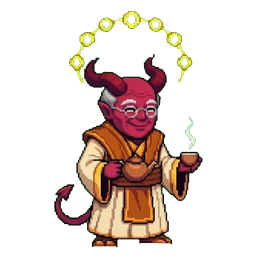
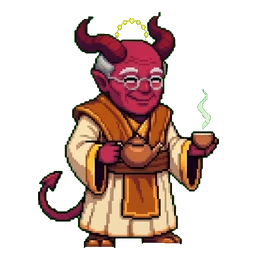
Cleric ID9 halka önizlemesi 3. tur: kullanıcı örneklerine göre küçük halka (kafatası × 0,48, baş tepesinde, boynuzların arasında), figür küçültülmedi; Tiefling kadın ID9 yeni çizim önizlemesi
Jetonlara yazılmadı (onay bekliyor). Dragonborn pul maskesi ∩ halka = 0. Elf kadın küçük halkaya sığmadı, 2. turun 0,86 önizlemesi kaldı. Diğer 12 jeton 2. turla aynı.

Claude-Session: https://claude.ai/code/session_01VVQfWy7Gxh4PHzxq6UKvoy

diff --git a/scripts/cleric-id9-halka.py b/scripts/cleric-id9-halka.py
@@ -86,7 +86,7 @@ OLCEK = (0.85, 1.10)   # ölçek sınırı: saç/kulak/boynuz eni yine şişirir
 
 BOYNUZLU = {'tiefling', 'dragonborn'}          # halka boynuz uçlarının üstüne: boncuklar boynuzla hiç kesişmez
 TAM = {'elf-kadin-cleric-ID9'}                 # boncuklar tam görünür: halka figürün hiçbir pikseliyle kesişmez
-HARIC = {'tiefling-kadin-cleric-ID9': 'çizim erkek karakter; kadın çizim Gemini ile yeniden üretilecek (kullanıcı, 2026-11-19)'}
+HARIC = {}   # 3. tur: Tiefling kadın ID9 yeni çizimle geri geldi
 KUCULT = [round(1 - 0.01 * i, 2) for i in range(0, 21)]   # 1,00 … 0,80: üstten sığmazsa figür ayak hizası sabit kalarak en az gereken kadar küçültülür
 
 def shrink(clean, f):
@@ -143,6 +143,48 @@ def compose(clean, rimg, x0, y0):
     can = Image.new('RGBA', (256, 256), (0, 0, 0, 0)); can.paste(rimg, (x0, y0), rimg)
     can.alpha_composite(Image.fromarray(clean, 'RGBA')); return np.array(can)
 
+# 2026-11-19 (3. tur): kullanıcı örnekleri (assets-ham/eksikler/halka-ornek-tiefling-erkek.png, -dragonborn-kadin.png; 1/4 indirgeme = jeton ölçeği)
+# ölçüldü: halka eni = kafatası eni × 0,48 (0,50 / 0,46), boy/en 0,68 (25/36, 21/31), alt kenar = baş tepesi + 2 (başın arkasına girer),
+# yatay merkez = baş merkezi + ırk payı × kafatası eni (Tiefling −0,035, Dragonborn −0,11). Figür küçültülmez.
+ORNEK = {'en': 0.48, 'boy_en': 0.68, 'alt': 2, 'x': {'tiefling': -0.035, 'dragonborn': -0.11, 'elf': 0.0}}
+YENI = {'tiefling-kadin-cleric-ID9': 'tiefling-kadin-cleric-ID9-yeni.jpg'}   # yeni çizim kaynağı (assets-ham/karakter/)
+
+def small_ring(clean, ring, race):
+    ht, cx, _, body = head(clean); sw = skull_width(body, ht, cx)
+    rw = max(8, round(sw * ORNEK['en'])); rh = max(5, round(rw * ORNEK['boy_en']))
+    rimg = Image.fromarray(ring, 'RGBA').convert('RGBa').resize((rw, rh), Image.LANCZOS).convert('RGBA')
+    ra_ = np.array(rimg); ra_[..., 3] = np.clip(ra_[..., 3].astype(int) * 2, 0, 255).astype(np.uint8)   # küçültmede incelen boncuklar örnekteki gibi tam parlaklıkta
+    rimg = Image.fromarray(ra_, 'RGBA')
+    xm = round(cx + ORNEK['x'].get(race, 0.0) * sw - rw / 2); y0 = ht + ORNEK['alt'] - rh
+    ra = np.array(rimg)[..., 3] > 40; ys_, xs_ = np.where(ra); horn = forbidden_of(clean, 'boynuz')
+    def mask_at(x0):
+        mk = np.zeros((256, 256), bool); yy, xx = ys_ + y0, xs_ + x0; ok = (yy >= 0) & (yy < 256) & (xx >= 0) & (xx < 256); mk[yy[ok], xx[ok]] = True; return mk
+    # boynuzlar halkanın iki yanında kalsın: ölçülen merkezin ±12 px içinde boynuz kesişimi en az olan yatay konum (eşitlikte ölçülene en yakın)
+    x0 = min(range(xm - 12, xm + 13), key=lambda x: (int((mask_at(x) & horn).sum()), abs(x - xm)))
+    out = compose(clean, rimg, x0, y0); rmask = mask_at(x0)
+    vis = rmask & ~(clean[..., 3] > 127)                # görünen halka pikselleri (başın önünde kalmayan)
+    info = {'kip': 'ornek', 'figur_olcek': 1.0, 'bas_tepe': int(ht), 'kafatasi_en': int(sw), 'halka_kutu': [x0, y0, x0 + rw, y0 + rh], 'yatay_kayma_px': int(x0 - xm),
+            'boynuz_kesisim_px': int((rmask & horn).sum()), 'kirpik': bool(y0 < 0 or x0 < 0 or x0 + rw > 256),
+            'gorunur_oran': round(float(vis.sum()) / max(1, int(rmask.sum())), 3)}
+    return out, info, rmask
+
+def new_token(name):
+    """Yeni çizim: yeşil anahtar (açık yeşil buhar ten/zemin değil, kalır), figür + buhar; ölçek = aynı ırk/cinsiyet Cleric ID1–ID8 ortanca boyu,
+    ayak tuvalin 247. satırında (diğer ID9'larla aynı)."""
+    import importlib.util as iu
+    sp = iu.spec_from_file_location('cc', 'scripts/cc-kesim.py'); cc = iu.module_from_spec(sp); sp.loader.exec_module(cc)
+    a = np.asarray(Image.open(f'assets-ham/karakter/{YENI[name]}').convert('RGB')); fg = cc.key_page(a)
+    lab, n = ndi.label(fg, structure=np.ones((3, 3))); sz = ndi.sum(fg, lab, range(1, n + 1)); H, W = fg.shape; objs = ndi.find_objects(lab)
+    keep = [i for i in range(1, n + 1) if sz[i - 1] >= 30 and not (objs[i - 1][0].start <= 1 or objs[i - 1][1].start <= 1 or objs[i - 1][0].stop >= H - 1 or objs[i - 1][1].stop >= W - 1)]
+    m = np.isin(lab, keep); ys, xs = np.where(m)
+    cell = cc.keyed_rgba(a[ys.min():ys.max() + 1, xs.min():xs.max() + 1], m[ys.min():ys.max() + 1, xs.min():xs.max() + 1])
+    race, g = name.split('-')[0], name.split('-')[1]
+    hs = []
+    for i in range(1, 9):
+        t = np.array(Image.open(f'{D}/{race}-{g}-cleric-ID{i}.webp').convert('RGBA'))[..., 3] > 127; yy, _ = np.where(t); hs.append(yy.max() - yy.min() + 1)
+    tok, sc = cc.place_token(cell, float(np.median(hs)))
+    return tok, {'kaynak': YENI[name], 'hedef_boy': float(np.median(hs)), 'olcek': sc, 'yesil_px_kalan': int(((tok[..., 1].astype(int) - np.maximum(tok[..., 0], tok[..., 2]).astype(int) > 120) & (tok[..., 3] > 0)).sum())}
+
 def main():
     os.makedirs(f'{OUT}/aday', exist_ok=True)
     ref = np.array(Image.open(f'{D}/human-erkek-cleric-ID9.webp').convert('RGBA'))
@@ -158,14 +200,21 @@ def main():
             n = f'{race}-{g}-cleric-ID9'
             if n in HARIC: rep['haric'] = {**rep.get('haric', {}), n: HARIC[n]}; continue
             a = np.array(Image.open(f'{D}/{n}.webp').convert('RGBA'))
-            _, clean, m = split_ring(a)
-            mode = 'boynuz' if race in BOYNUZLU else ('tam' if n in TAM else 'normal')
-            out, info = place(clean, ring, rb, rht, rcx, rhw, mode)
-            info['silinen_px'] = int(m.sum()); info['kip'] = mode
+            yeni = None
+            if n in YENI: tokn, yeni = new_token(n); clean, m = tokn, np.zeros(tokn.shape[:2], bool)   # yeni çizimde halka yok (sarı gözler silinmesin)
+            else: _, clean, m = split_ring(a)
+            if race in BOYNUZLU or n in TAM:
+                out, info, rmask = small_ring(clean, ring, race)
+                if n in TAM and (info['kirpik'] or info['gorunur_oran'] < 0.98):   # saç üstüne sığmadı: 2. turun 0,86 ölçekli önizlemesi kalır
+                    out, info2 = place(clean, ring, rb, rht, rcx, rhw, 'tam'); info = {**info2, 'kip': 'tam (geri dönüş)', 'kucuk_halka_denemesi': info}
+            else:
+                out, info = place(clean, ring, rb, rht, rcx, rhw, 'normal'); info['kip'] = 'normal'
+            info['silinen_px'] = int(m.sum())
+            if yeni: info['yeni_cizim'] = yeni
             pm = f'{D}/maske-pul/{n}.png'
             if race == 'dragonborn' and os.path.exists(pm):
                 mk = np.array(Image.open(pm).convert('L')) > 127; info['pul_maske_kesisim_px'] = int((mk & m).sum())
-                info['halka_pul_maske_kesisim_px'] = int((mk & (out[..., 3] > 0) & (np.abs(out.astype(int) - a.astype(int)).max(-1) > 0)).sum()) if info.get('figur_olcek', 1) == 1 else 'figür küçüldü'
+                info['halka_pul_maske_kesisim_px'] = int((mk & (np.abs(out.astype(int) - a.astype(int)).max(-1) > 0)).sum()) if info.get('figur_olcek', 1) == 1 else 'figür küçüldü'
             rep['jetonlar'][n] = info
             Image.fromarray(out, 'RGBA').save(f'{OUT}/aday/{n}.png')
             pairs.append((n, a, out))
@@ -180,7 +229,7 @@ def main():
         d.text((x + 4, y + 6), f'{n}   once | sonra', fill=(255, 255, 255))
     im.save(f'{OUT}/once-sonra-3x.png')
     for n, a, b in pairs:                              # boynuzlu ırklar ve elf kadın: 4× yakın (baş bölgesi)
-        if not (n.split('-')[0] in BOYNUZLU or n in TAM): continue
+        if not (n.split('-')[0] in BOYNUZLU or n in TAM or n in YENI): continue
         c = Image.new('RGBA', (2 * 640 + 24, 520 + 26), (52, 54, 60, 255)); d2 = ImageDraw.Draw(c)
         for j, t in enumerate((a, b)):
             c.alpha_composite(Image.fromarray(t, 'RGBA').crop((48, 0, 208, 130)).resize((640, 520), Image.NEAREST), (j * 664, 26))

diff --git a/docs/sabah/cleric-id9-halka/NOT.md b/docs/sabah/cleric-id9-halka/NOT.md
@@ -1,29 +1,30 @@
-# Cleric ID9 halka önizlemesi: 2. tur (2026-11-19; jetonlara yazılmadı, onay bekliyor)
+# Cleric ID9 halka önizlemesi: 3. tur (2026-11-19; jetonlara yazılmadı, onay bekliyor)
 
-- `once-sonra-3x.png`: 17 jeton (Tiefling kadın ID9 hariç). 4× yakın: `yakin-4x-<jeton>.png` (Tiefling erkek, Dragonborn erkek/kadın, elf kadın).
-- Boynuzlu ırklar ve elf kadın: halka boynuz/saçla kesişmesin diye yukarı alındı; tuvale sığmadığı için figür küçüldü (ayak hizası sabit):
-  Tiefling erkek 0,82, elf kadın 0,86, Dragonborn erkek 0,87, Dragonborn kadın 0,92. Küçültmeden en iyi yerleşimde bile kesişim kalıyordu
-  (elf kadın 1096 px, Tiefling erkek 203, Dragonborn erkek 53, kadın 24). Diğer 13 jeton bir önceki önizlemeyle piksel piksel aynı.
-- **Onaylanırsa ek iş:** küçülen 4 jetonun maskeleri figürle hizalı kalmaz; ten maskesi (`npm run soy-maske -- --alt`) ve Dragonborn pul maskesi
-  (`python scripts/dragonborn-pul-maske.py`; bu iki jetonun `dragonborn-pul-duzeltme.json` kaydı yok) yeniden üretilmeli. Halka maskeye girmez
-  (sarı-yeşil, ten/pul tonu değil). Küçültme istenmezse alternatif: bu 4 jetonda halkayı kesişimi kabul ederek bırakmak.
+Kaynak: kullanıcı örnekleri `assets-ham/eksikler/halka-ornek-tiefling-erkek.png`, `halka-ornek-dragonborn-kadin.png` (1/4 indirgeme = jeton ölçeği).
+Ölçülen kural (`scripts/cleric-id9-halka.py` `ORNEK`): halka = insan erkek halka yayı; eni kafatası eni × 0,48 (örneklerde 0,50 / 0,46), boy/en 0,68,
+alt kenarı baş tepesinin 2 px altında (karakterin arkasında), yatay merkez baş merkezi + ırk payı (Tiefling −0,035, Dragonborn −0,11 × kafatası),
+sonra ±12 px içinde boynuz kesişimini en aza indiren konum. **Figür küçültülmedi** (ölçek 1,0, ayak hizası aynı). Küçültmede incelen boncukların
+alfası ×2 (örnekteki gibi tam parlak).
+
+| Jeton | Halka kutusu | Yatay düzeltme px | Boynuz kesişimi px | Görünen oran | Pul maskesi ∩ halka |
+|---|---|---|---|---|---|
+| tiefling-erkek-cleric-ID9 | [114, 18, 149, 42] | 0 | 2 | 0.973 | — |
+| tiefling-kadin-cleric-ID9 | [105, 5, 143, 31] | -8 | 2 | 0.99 | — |
+| dragonborn-erkek-cleric-ID9 | [112, 37, 140, 56] | -5 | 10 | 0.892 | 0 |
+| dragonborn-kadin-cleric-ID9 | [109, 29, 141, 51] | -2 | 3 | 0.97 | 0 |
+
+Boynuz kesişimi 2–8 px: halkanın iki ucundaki ince kuyruk pikselleri boynuz kenarına değiyor (boncuklar değil); 4× görüntülerde boynuzlar halkanın
+iki yanında. Dragonborn pul maskesiyle halka kesişimi 0 (eski halka silinen piksellerle de 0).
+
+- **Tiefling kadın ID9 yeni çizim** (`tiefling-kadin-cleric-ID9-yeni.jpg`): yeşil anahtarlandı, açık yeşil buhar korundu, ölçek = Tiefling kadın
+  Cleric ID1–ID8 ortanca boyu (232 px), ayak 247. satırda (diğer ID9'larla aynı). Eski jeton commit geçmişinde (`public/` değişmedi).
+  **Ten maskesi:** Tiefling'de var (`public/characters/maske/tiefling-kadin-cleric-ID9.png`, eski çizimden); onaylanıp jeton yazılınca
+  `npm run soy-maske -- --alt tiefling` ile yeniden üretilecek (şimdi public'e yazılmadığı için üretilmedi).
+- **Elf kadın:** küçük halka saç tepesinin üstüne sığmadı (saç tepesi 8. satırda; halka kutusu [111, -9, 139, 10], üstten kırpık, görünen oran
+  0.875). 2. turun 0,86 ölçekli önizlemesi kaldı (onaylanırsa ten maskesi yeniden üretilmeli).
+- **Diğer 12 jeton** (insan, elf erkek, cüce, ork, gnome, goliath, halfling): 2. turla piksel piksel aynı.
+- Görseller: `once-sonra-3x.png` (18 jeton), `yakin-4x-<jeton>.png` (Tiefling erkek/kadın, Dragonborn erkek/kadın, elf kadın).
 
 ## Tiefling kadın Cleric jetonları (`tiefling-kadin-cleric-kontak.png`)
 
-| Jeton | Çizim | Not |
-|---|---|---|
-| tiefling-female-cleric (genel) | kadın | zırh, kalkan, gürz |
-| ID1 Yaşam | kadın | kanatlı beyaz cüppe |
-| ID2 Aydın | kadın | güneş |
-| ID3 Barış (bağlı değil) | kadın | güvercinli açık mavi cüppe |
-| ID4 Demirci | kadın | çekiç |
-| ID5 Fırtına | kadın | zırh, şimşek |
-| ID6 Mezar | kadın | kafatası maskesi |
-| ID7 Savaş | kadın | zırh, kalkan |
-| ID8 Yakamoz | kadın | fener |
-| ID9 Birlik Manastırı | **erkek** (yaşlı, kel, gözlüklü) | çay seti; yanlış cinsiyet |
-| GR Gariban | kadın | kahverengi kaba cüppe, sopa |
-
-**Uygun kadın Birlik Manastırı çizimi yok:** hiçbir kadın jetonda çay seti yok. Temaya en yakınlar: ID3 (barışçıl manastır cüppesi, güvercin; ama
-çaydanlık/fincan yok, Barış Alanı çizimi) ve GR (kahverengi keşiş cüppesi; sopa taşıyor). İkisi de çay setini taşımıyor; Gemini'den yeniden üretim
-gerekli. Jeton kopyalanmadı, uydurulmadı.
+2. tur tespiti: genel, ID1–ID8, GR kadın; eski ID9 erkek (yaşlı kel çizim) → yeni çizimle değiştirilecek.
